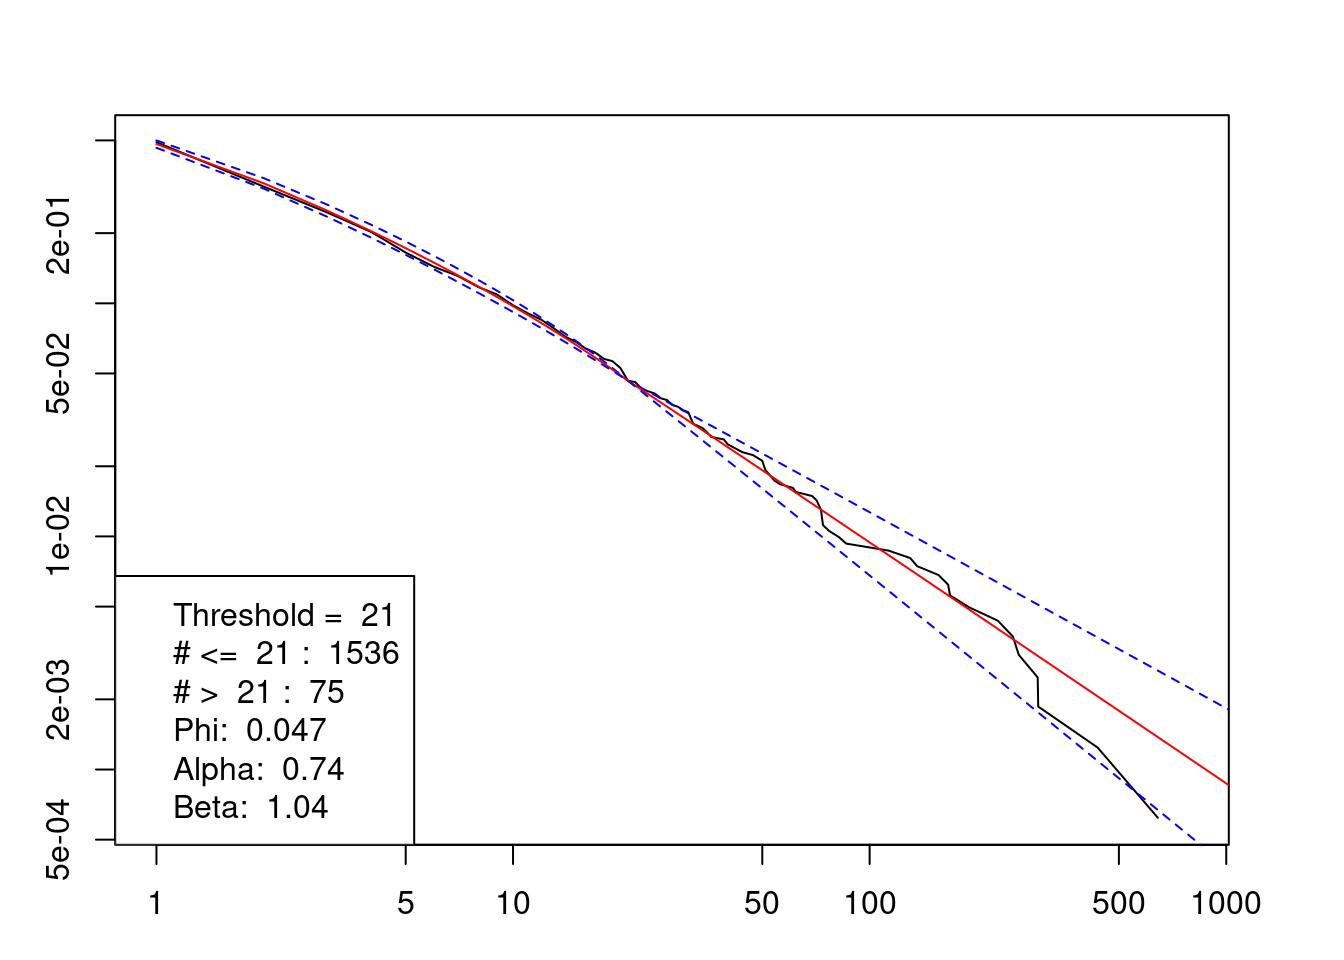
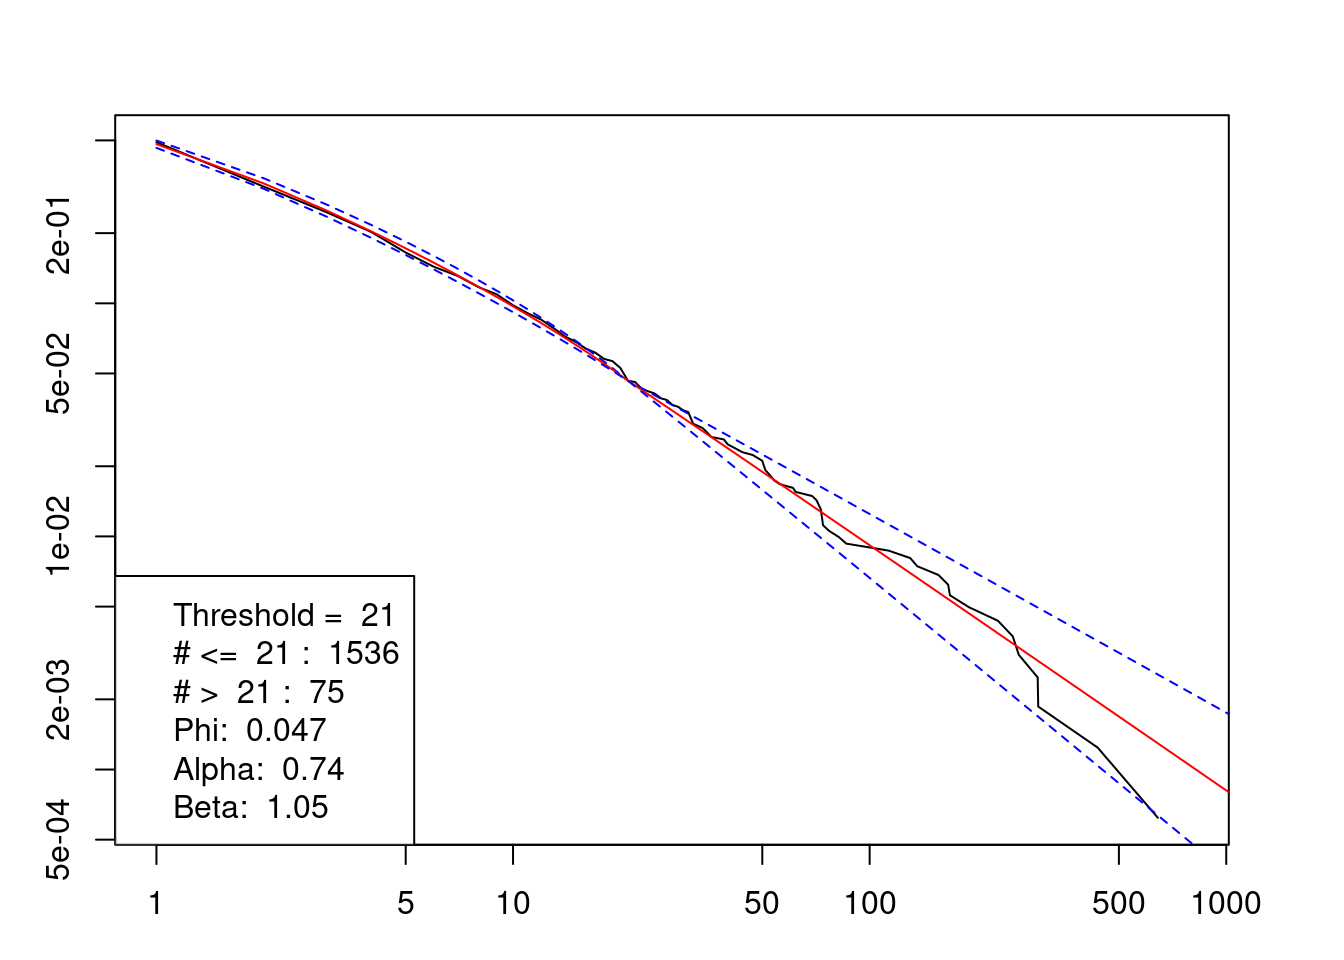
Fixed equations for power law igpd section. Some improvements to plots

diff --git a/quarto/CRAN.html b/quarto/CRAN.html
@@ -135,7 +135,7 @@ pre > code.sourceCode > span > a:first-child::before { text-decoration: underlin
   <li><a href="#implementation-of-zeta-function" id="toc-implementation-of-zeta-function" class="nav-link" data-scroll-target="#implementation-of-zeta-function">Implementation of zeta function</a>
   <ul>
   <li><a href="#defaults" id="toc-defaults" class="nav-link" data-scroll-target="#defaults">Defaults</a></li>
-  <li><a href="#increasing-the-value-of-aa" id="toc-increasing-the-value-of-aa" class="nav-link" data-scroll-target="#increasing-the-value-of-aa">Increasing the value of aa</a></li>
+  <li><a href="#increasing-the-value-of-aa-to-300" id="toc-increasing-the-value-of-aa-to-300" class="nav-link" data-scroll-target="#increasing-the-value-of-aa-to-300">Increasing the value of aa to 300</a></li>
   </ul></li>
   </ul></li>
   </ul>
@@ -226,46 +226,38 @@ L(\boldsymbol{x}) = \zeta(\alpha+1)^{-N}\prod_{i=1}^N x_i^{-(\alpha+1)}
 <p><span class="math display">\[
 f(x) =
 \begin{cases}
-\zeta(\alpha+1)^{-1}x^{-(\alpha+1)}&amp;, x\leq u\\
-\left[1-\zeta(\alpha+1)^{-1}\sum_{k=1}^u k^{-(\alpha+1)}\right]\left\{\left(1+\frac{\xi(x-1)}{\sigma_u}\right)_+^{-1/\xi} - \left(1+\frac{\xi x}{\sigma_u}\right)_+^{-1/\xi}\right\}&amp;,x&gt;u
+(1-\phi_u)\left[\zeta(\alpha+1)-\zeta(\alpha+1,u+1)\right]^{-1}x^{-(\alpha+1)}&amp;, x\leq u\\
+\phi_u\left\{\left(1+\frac{\xi(x-u-1)}{\sigma_u}\right)_+^{-1/\xi} - \left(1+\frac{\xi (x-u)}{\sigma_u}\right)_+^{-1/\xi}\right\}&amp;,x&gt;u
 \end{cases}
 \]</span></p>
 <p>And the cumulative mass function is given by:</p>
 <p><span class="math display">\[
 F(x) = \begin{cases}
-\zeta(\alpha+1)^{-1}\sum_{k=1}^xk^{-(\alpha+1)}&amp;,x\leq u\\
-\zeta(\alpha+1)^{-1}\sum_{k=1}^uk^{-(\alpha+1)} + \left[1-\zeta(\alpha+1)^{-1}\sum_{k=1}^u k^{-(\alpha+1)}\right]\sum_{k=u+1}^x\left\{\left(1+\frac{\xi(k-1)}{\sigma_u}\right)_+^{-1/\xi} - \left(1+\frac{\xi k}{\sigma_u}\right)_+^{-1/\xi}\right\}&amp;,x&gt;u
-\end{cases}
-\]</span></p>
-<p>This can be simplified to:</p>
-<p><span class="math display">\[
-F(x) = \begin{cases}
-\zeta(\alpha+1)^{-1}\sum_{k=1}^xk^{-(\alpha+1)}&amp;,x\leq u\\
-\zeta(\alpha+1)^{-1}\sum_{k=1}^uk^{-(\alpha+1)} + \left[1-\zeta(\alpha+1)^{-1}\sum_{k=1}^u k^{-(\alpha+1)}\right]\left\{1 - \left(1+\frac{\xi k}{\sigma_u}\right)_+^{-1/\xi}\right\}&amp;,x&gt;u
+(1-\phi_u)\frac{\zeta(\alpha+1)-\zeta(\alpha+1,x+1)}{\zeta(\alpha+1)-\zeta(\alpha+1,u+1)}&amp;,x\leq u\\
+(1-\phi_u) + \phi_u\left[1-\left(1+\frac{\xi(x-u)}{\sigma_u}\right)_+^{-1/\xi}\right]&amp;,x&gt;u
 \end{cases}
 \]</span></p>
 <p>Which makes the survival function of this model:</p>
 <p><span class="math display">\[
 S(x) =
 \begin{cases}
-1-\zeta(\alpha+1)^{-1}\sum_{k=1}^x k^{-(\alpha+1)}&amp;,x\leq u\\
-\left[1-\zeta(\alpha+1)^{-1}\sum_{k=1}^u k^{-(\alpha+1)}\right]\left(1+\frac{\xi x}{\sigma_u}\right)_+^{-1/\xi}&amp;,x&gt;u
+1-(1-\phi_u)\frac{\zeta(\alpha+1)-\zeta(\alpha+1,x+1)}{\zeta(\alpha+1)-\zeta(\alpha+1,u+1)}&amp;,x\leq u\\
+\phi_u\left(1+\frac{\xi(x-u)}{\sigma_u}\right)_+^{-1/\xi}&amp;,x&gt;u
 \end{cases}
 \]</span></p>
 <p>If we have a vector of data <span class="math inline">\(\boldsymbol{x} = (x_1,x_2,\ldots x_N)^T\)</span> then the likelihood and log-likelihood are:</p>
 <p><span class="math display">\[
-L(\boldsymbol{x}) = \zeta(\alpha+1)^{-n}C_{\alpha,u}^{N-n}\prod_{i:x_i\leq u}x_i^{-(\alpha+1)}\prod_{i:x_i&gt;u}\left\{\left(1+\frac{\xi(x_i-1)}{\sigma_u}\right)_+^{-1/\xi} - \left(1+\frac{\xi x_i}{\sigma_u}\right)_+^{-1/\xi}\right\}
+L(\boldsymbol{x}) = (1-\phi_u)^n\phi_u^{N-n}[\zeta(\alpha+1)-\zeta(\alpha+1,u+1)]^{-n}\prod_{i:x_i \le u} x_i^{-(\alpha+1)}\prod_{i:x_i&gt;u}\left\{\left(1+\frac{\xi(x_i-u-1)}{\sigma_u}\right)_+^{-1/\xi} - \left(1+\frac{\xi (x_i-u)}{\sigma_u}\right)_+^{-1/\xi}\right\}
 \]</span></p>
 <p>and,</p>
 <p><span class="math display">\[
-\ell(\boldsymbol{x}) = -n\log\zeta(\alpha+1)+(N-n)\log C_{\alpha,u} -(\alpha+1)\sum_{i:x_i\leq u}\log x_i + \sum_{i:x_i&gt;u}\log\left\{\left(1+\frac{\xi(x_i-1)}{\sigma_u}\right)_+^{-1/\xi} - \left(1+\frac{\xi x_i}{\sigma_u}\right)_+^{-1/\xi}\right\}
+\ell(\boldsymbol{x}) = n\log(1-\phi_u) + (N-n)\log\phi_u-n\log[\zeta(\alpha+1)-\zeta(\alpha+1,u+1)] -(\alpha+1)\sum_{i:x_i\leq u}\log x_i + \sum_{i:x_i&gt;u}\log\left\{\left(1+\frac{\xi(x_i-1)}{\sigma_u}\right)_+^{-1/\xi} - \left(1+\frac{\xi x_i}{\sigma_u}\right)_+^{-1/\xi}\right\}
 \]</span></p>
-<p>where <span class="math inline">\(C_{\alpha,u} = 1-\zeta(\alpha+1)^{-1}\sum_{k=1}^u k^{-(\alpha+1)}\)</span>.</p>
 <p>Since we wish to use this to construct a Metropolis-Hastings algorithm we again need some priors for the values of the parameters. The priors we use are listed below.</p>
 <p><span class="math display">\[
-\alpha\sim Ga(\gamma,\delta),\\
+\alpha\sim Ga(c,d),\\
 \xi \sim N(0,s^2),\\
-\sigma_u \sim Ga(\phi,\psi)
+\sigma_u \sim Ga(v,w)
 \]</span></p>
 <p>Our joint prior distribution is defined as follows:</p>
 <span class="math display">\[\begin{align}
@@ -274,23 +266,13 @@ L(\boldsymbol{x}) = \zeta(\alpha+1)^{-n}C_{\alpha,u}^{N-n}\prod_{i:x_i\leq u}x_i
 \end{align}\]</span>
 <p>And we have that</p>
 <span class="math display">\[\begin{align}
-\log\pi(\alpha) &amp;= \gamma\log\delta - \log\Gamma(\gamma) + (\gamma-1)\log\alpha -\delta\alpha\\
+\log\pi(\alpha) &amp;= c\log d - \log \Gamma(c) + (c-1)\log\alpha -d\alpha\\
 \log\pi(\xi) &amp;= -\log s -0.5\log 2\pi - \frac{\xi^2}{2s^2}\\
-\log\pi(\sigma_u) &amp;= \phi\log\psi - \log\Gamma(\phi) + (\phi-1)\log\sigma_u - \psi\sigma_u
+\log\pi(\sigma_u) &amp;= v\log w - \log\Gamma(v) + (v-1)\log\sigma_u - w\sigma_u
 \end{align}\]</span>
-<p>Which we can then use to construct the joint posterior:</p>
-<span class="math display">\[\begin{align}
-\pi(\alpha,\xi,\sigma_u|x) &amp;\propto L(x)\pi(\alpha,\xi,\sigma_u)\\
-                            &amp;=L(x)\pi(\alpha)\pi(\xi)\pi(\sigma_u)\\
-\log\pi(\alpha,\xi,\sigma_u|x) &amp;= \log A + \ell(x) +  \log\pi(\alpha) +\log\pi(\xi) + \log\pi(\sigma_u)\\
-&amp;= \log B - n\log\zeta(\alpha+1) - (\alpha + 1)\sum_{i:x_i\leq u}\log x_i + (N-n)\log C_{\alpha,u} + \sum_{i:x_i&gt;u}\log[G(x_i-1) - G(x_i)]\\
-
-&amp;\qquad + (\gamma-1)\log\alpha - \delta\alpha -\frac{\xi^2}{2s^2} + (\phi-1)\log\sigma_u - \psi\sigma_u
-\end{align}\]</span>
-<p>We can now use this to fit the model for various thresholds, the thresholds we will be using will be based on the quantiles of our data.</p>
 <section id="method-for-fitting" class="level2">
 <h2 class="anchored" data-anchor-id="method-for-fitting">Method for fitting</h2>
-<p>In order to fit this model we will be using a bayesian approach, estimating the parameters using a Metropolis-Hastings algorithm with an adaptive proposal distribution, the method is fully described below:</p>
+<p>In order to fit this model we will be using a Bayesian approach, estimating the parameters using a Metropolis-Hastings algorithm with an adaptive proposal distribution, the method is fully described below:</p>
 <p>Suppose we have the initial state <span class="math inline">\(\theta^{(0)} = (\alpha^{(0)},\xi^{(0)},\sigma_u^{(0)})\)</span> and an initial proposal covariance matrix <span class="math inline">\(\Sigma^{(0)}\)</span>. Let <span class="math inline">\(\Omega\)</span> be the ordered set of accepted states that is initially empty. Starting with <span class="math inline">\(t=1\)</span>.</p>
 <ol type="1">
 <li><ul>
@@ -332,6 +314,14 @@ L(\boldsymbol{x}) = \zeta(\alpha+1)^{-n}C_{\alpha,u}^{N-n}\prod_{i:x_i\leq u}x_i
 <div class="cell">
 <div class="sourceCode cell-code" id="cb1"><pre class="sourceCode r code-with-copy"><code class="sourceCode r"><span id="cb1-1"><a href="#cb1-1" aria-hidden="true" tabindex="-1"></a>n.iter<span class="ot">=</span><span class="fl">1e4</span></span></code><button title="Copy to Clipboard" class="code-copy-button"><i class="bi"></i></button></pre></div>
 </div>
+<p>The models below were obtained using hyperparameters:</p>
+<p><span class="math display">\[
+c=1,d=0.01,s=3,v=1,w=0.01
+\]</span></p>
+<p>The initial values used were:</p>
+<p><span class="math display">\[
+\alpha=2,\xi=3,\sigma_u=5
+\]</span></p>
 <section id="depends-without-zeros" class="level3">
 <h3 class="anchored" data-anchor-id="depends-without-zeros">Depends Without Zeros</h3>
 <section id="quantile-0.95" class="level4">
@@ -423,7 +413,7 @@ S(x) =
 \phi_u\frac{\zeta_{x}(\beta+1)}{\zeta_{u}(\beta+1)}&amp;,x&gt;u
 \end{cases}
 \]</span></p>
-<p>As before we have data <span class="math inline">\(\boldsymbol{x} = (x_1,x_2,\ldots,x_N)^T\)</span> , the likelihood function for this model is as below:</p>
+<p>As before we have data <span class="math inline">\(\boldsymbol{x} = (x_1,x_2,\ldots,x_N)^T\)</span> with <span class="math inline">\(n\)</span> values at or below the threshold <span class="math inline">\(u\)</span> , the likelihood function for this model is as below:</p>
 <p><span class="math display">\[
 L(\boldsymbol{x}) = (1-\phi_u)^n\phi_u^{N-n} \left[\zeta(\alpha+1) - \zeta_{u}(\alpha+1)\right]^{-n} \zeta_{u}(\beta+1)^{n-N} \prod_{i:x_i\le u}x_i^{-(\alpha+1)}\prod_{i:x_i&gt;u}x_i^{-(\beta+1)}
 \]</span></p>
@@ -435,12 +425,20 @@ L(\boldsymbol{x}) = (1-\phi_u)^n\phi_u^{N-n} \left[\zeta(\alpha+1) - \zeta_{u}(\
 <p><span class="math display">\[
 \alpha,\beta \sim Ga(\gamma,\delta)
 \]</span></p>
-<p>We will be treating <span class="math inline">\(\phi_u\)</span> as a fixed value, using the MLE as its value; <span class="math inline">\(\hat\phi_u = \frac{\sum_{i=1}^N I_{x_i&gt;u}(x_i)}{N}\)</span></p>
+<p>We will be treating <span class="math inline">\(\phi_u\)</span> as a fixed value, using the MLE as its value; <span class="math inline">\(\hat\phi_u = \frac{N-n}{N}\)</span></p>
 <section id="plots-of-fitted-model-1" class="level2">
 <h2 class="anchored" data-anchor-id="plots-of-fitted-model-1">Plots of fitted model</h2>
 <div class="cell">
 <div class="sourceCode cell-code" id="cb2"><pre class="sourceCode r code-with-copy"><code class="sourceCode r"><span id="cb2-1"><a href="#cb2-1" aria-hidden="true" tabindex="-1"></a>n.iter <span class="ot">=</span> <span class="fl">3e4</span></span></code><button title="Copy to Clipboard" class="code-copy-button"><i class="bi"></i></button></pre></div>
 </div>
+<p>We used the hyperparamters:</p>
+<p><span class="math display">\[
+\gamma=1,\delta=0.01
+\]</span></p>
+<p>and initial values:</p>
+<p><span class="math display">\[
+\alpha=\beta=2
+\]</span></p>
 <section id="depends-data-1" class="level3">
 <h3 class="anchored" data-anchor-id="depends-data-1">Depends Data</h3>
 <section id="quantile-0.95-2" class="level4">
@@ -561,13 +559,52 @@ L(\boldsymbol{x}) = (1-\phi_u)^n\phi_u^{N-n} \left[\zeta(\alpha+1) - \zeta_{u}(\
 <section id="defaults" class="level3">
 <h3 class="anchored" data-anchor-id="defaults">Defaults</h3>
 <div class="cell">
+<div class="sourceCode cell-code" id="cb3"><pre class="sourceCode r code-with-copy"><code class="sourceCode r"><span id="cb3-1"><a href="#cb3-1" aria-hidden="true" tabindex="-1"></a>zeta_mod <span class="ot">=</span> <span class="cf">function</span> (x, <span class="at">deriv =</span> <span class="dv">0</span>, <span class="at">shift =</span> <span class="dv">1</span>,<span class="at">aa=</span><span class="dv">12</span>) </span>
+<span id="cb3-2"><a href="#cb3-2" aria-hidden="true" tabindex="-1"></a>{</span>
+<span id="cb3-3"><a href="#cb3-3" aria-hidden="true" tabindex="-1"></a>    deriv.arg <span class="ot">&lt;-</span> deriv</span>
+<span id="cb3-4"><a href="#cb3-4" aria-hidden="true" tabindex="-1"></a>    <span class="fu">rm</span>(deriv)</span>
+<span id="cb3-5"><a href="#cb3-5" aria-hidden="true" tabindex="-1"></a>    <span class="cf">if</span> (<span class="sc">!</span><span class="fu">is.Numeric</span>(deriv.arg, <span class="at">length.arg =</span> <span class="dv">1</span>, <span class="at">integer.valued =</span> <span class="cn">TRUE</span>)) </span>
+<span id="cb3-6"><a href="#cb3-6" aria-hidden="true" tabindex="-1"></a>        <span class="fu">stop</span>(<span class="st">"'deriv' must be a single non-negative integer"</span>)</span>
+<span id="cb3-7"><a href="#cb3-7" aria-hidden="true" tabindex="-1"></a>    <span class="cf">if</span> (deriv.arg <span class="sc">&lt;</span> <span class="dv">0</span> <span class="sc">||</span> deriv.arg <span class="sc">&gt;</span> <span class="dv">2</span>) </span>
+<span id="cb3-8"><a href="#cb3-8" aria-hidden="true" tabindex="-1"></a>        <span class="fu">stop</span>(<span class="st">"'deriv' must be 0, 1, or 2"</span>)</span>
+<span id="cb3-9"><a href="#cb3-9" aria-hidden="true" tabindex="-1"></a>    <span class="cf">if</span> (deriv.arg <span class="sc">&gt;</span> <span class="dv">0</span>) </span>
+<span id="cb3-10"><a href="#cb3-10" aria-hidden="true" tabindex="-1"></a>        <span class="fu">return</span>(<span class="fu">zeta.specials</span>(<span class="fu">Zeta.derivative</span>(x, <span class="at">deriv.arg =</span> deriv.arg, </span>
+<span id="cb3-11"><a href="#cb3-11" aria-hidden="true" tabindex="-1"></a>            <span class="at">shift =</span> shift), x, deriv.arg, shift))</span>
+<span id="cb3-12"><a href="#cb3-12" aria-hidden="true" tabindex="-1"></a>    <span class="cf">if</span> (<span class="fu">any</span>(special <span class="ot">&lt;-</span> <span class="fu">Re</span>(x) <span class="sc">&lt;=</span> <span class="dv">1</span>)) {</span>
+<span id="cb3-13"><a href="#cb3-13" aria-hidden="true" tabindex="-1"></a>        ans <span class="ot">&lt;-</span> x</span>
+<span id="cb3-14"><a href="#cb3-14" aria-hidden="true" tabindex="-1"></a>        ans[special] <span class="ot">&lt;-</span> <span class="cn">Inf</span></span>
+<span id="cb3-15"><a href="#cb3-15" aria-hidden="true" tabindex="-1"></a>        special3 <span class="ot">&lt;-</span> <span class="fu">Re</span>(x) <span class="sc">&lt;</span> <span class="dv">1</span></span>
+<span id="cb3-16"><a href="#cb3-16" aria-hidden="true" tabindex="-1"></a>        ans[special3] <span class="ot">&lt;-</span> <span class="cn">NA</span></span>
+<span id="cb3-17"><a href="#cb3-17" aria-hidden="true" tabindex="-1"></a>        special4 <span class="ot">&lt;-</span> (<span class="dv">0</span> <span class="sc">&lt;</span> <span class="fu">Re</span>(x)) <span class="sc">&amp;</span> (<span class="fu">Re</span>(x) <span class="sc">&lt;</span> <span class="dv">1</span>) <span class="sc">&amp;</span> (<span class="fu">Im</span>(x) <span class="sc">==</span> <span class="dv">0</span>)</span>
+<span id="cb3-18"><a href="#cb3-18" aria-hidden="true" tabindex="-1"></a>        ans[special4] <span class="ot">&lt;-</span> <span class="fu">Zeta.derivative</span>(x[special4], <span class="at">deriv.arg =</span> deriv.arg, </span>
+<span id="cb3-19"><a href="#cb3-19" aria-hidden="true" tabindex="-1"></a>            <span class="at">shift =</span> shift)</span>
+<span id="cb3-20"><a href="#cb3-20" aria-hidden="true" tabindex="-1"></a>        special2 <span class="ot">&lt;-</span> <span class="fu">Re</span>(x) <span class="sc">&lt;</span> <span class="dv">0</span></span>
+<span id="cb3-21"><a href="#cb3-21" aria-hidden="true" tabindex="-1"></a>        <span class="cf">if</span> (<span class="fu">any</span>(special2)) {</span>
+<span id="cb3-22"><a href="#cb3-22" aria-hidden="true" tabindex="-1"></a>            x2 <span class="ot">&lt;-</span> x[special2]</span>
+<span id="cb3-23"><a href="#cb3-23" aria-hidden="true" tabindex="-1"></a>            cx <span class="ot">&lt;-</span> <span class="dv">1</span> <span class="sc">-</span> x2</span>
+<span id="cb3-24"><a href="#cb3-24" aria-hidden="true" tabindex="-1"></a>            ans[special2] <span class="ot">&lt;-</span> <span class="dv">2</span><span class="sc">^</span>(x2) <span class="sc">*</span> pi<span class="sc">^</span>(x2 <span class="sc">-</span> <span class="dv">1</span>) <span class="sc">*</span> <span class="fu">sin</span>(pi <span class="sc">*</span> </span>
+<span id="cb3-25"><a href="#cb3-25" aria-hidden="true" tabindex="-1"></a>                x2<span class="sc">/</span><span class="dv">2</span>) <span class="sc">*</span> <span class="fu">gamma</span>(cx) <span class="sc">*</span> <span class="fu">Recall</span>(cx)</span>
+<span id="cb3-26"><a href="#cb3-26" aria-hidden="true" tabindex="-1"></a>        }</span>
+<span id="cb3-27"><a href="#cb3-27" aria-hidden="true" tabindex="-1"></a>        <span class="cf">if</span> (<span class="fu">any</span>(<span class="sc">!</span>special)) {</span>
+<span id="cb3-28"><a href="#cb3-28" aria-hidden="true" tabindex="-1"></a>            ans[<span class="sc">!</span>special] <span class="ot">&lt;-</span> <span class="fu">Recall</span>(x[<span class="sc">!</span>special])</span>
+<span id="cb3-29"><a href="#cb3-29" aria-hidden="true" tabindex="-1"></a>        }</span>
+<span id="cb3-30"><a href="#cb3-30" aria-hidden="true" tabindex="-1"></a>        <span class="fu">return</span>(<span class="fu">zeta.specials</span>(ans, x, deriv.arg, shift))</span>
+<span id="cb3-31"><a href="#cb3-31" aria-hidden="true" tabindex="-1"></a>    }</span>
+<span id="cb3-32"><a href="#cb3-32" aria-hidden="true" tabindex="-1"></a>    ans <span class="ot">&lt;-</span> <span class="dv">0</span></span>
+<span id="cb3-33"><a href="#cb3-33" aria-hidden="true" tabindex="-1"></a>    <span class="cf">for</span> (ii <span class="cf">in</span> <span class="dv">0</span><span class="sc">:</span>(aa <span class="sc">-</span> <span class="dv">1</span>)) ans <span class="ot">&lt;-</span> ans <span class="sc">+</span> <span class="dv">1</span><span class="sc">/</span>(shift <span class="sc">+</span> ii)<span class="sc">^</span>x</span>
+<span id="cb3-34"><a href="#cb3-34" aria-hidden="true" tabindex="-1"></a>    ans <span class="ot">&lt;-</span> ans <span class="sc">+</span> <span class="fu">Zeta.aux</span>(<span class="at">shape =</span> x, aa, <span class="at">shift =</span> shift)</span>
+<span id="cb3-35"><a href="#cb3-35" aria-hidden="true" tabindex="-1"></a>    ans[shift <span class="sc">&lt;=</span> <span class="dv">0</span>] <span class="ot">&lt;-</span> <span class="cn">NaN</span></span>
+<span id="cb3-36"><a href="#cb3-36" aria-hidden="true" tabindex="-1"></a>    <span class="fu">zeta.specials</span>(ans, x, <span class="at">deriv.arg =</span> deriv.arg, <span class="at">shift =</span> shift)</span>
+<span id="cb3-37"><a href="#cb3-37" aria-hidden="true" tabindex="-1"></a>}</span></code><button title="Copy to Clipboard" class="code-copy-button"><i class="bi"></i></button></pre></div>
+</div>
+<div class="cell">
 <div class="cell-output-display">
 <p><img src="CRAN_files/figure-html/unnamed-chunk-20-1.png" class="img-fluid" width="672"></p>
 </div>
 </div>
 </section>
-<section id="increasing-the-value-of-aa" class="level3">
-<h3 class="anchored" data-anchor-id="increasing-the-value-of-aa">Increasing the value of aa</h3>
+<section id="increasing-the-value-of-aa-to-300" class="level3">
+<h3 class="anchored" data-anchor-id="increasing-the-value-of-aa-to-300">Increasing the value of aa to 300</h3>
 <div class="cell">
 <div class="cell-output-display">
 <p><img src="CRAN_files/figure-html/unnamed-chunk-21-1.png" class="img-fluid" width="672"></p>
